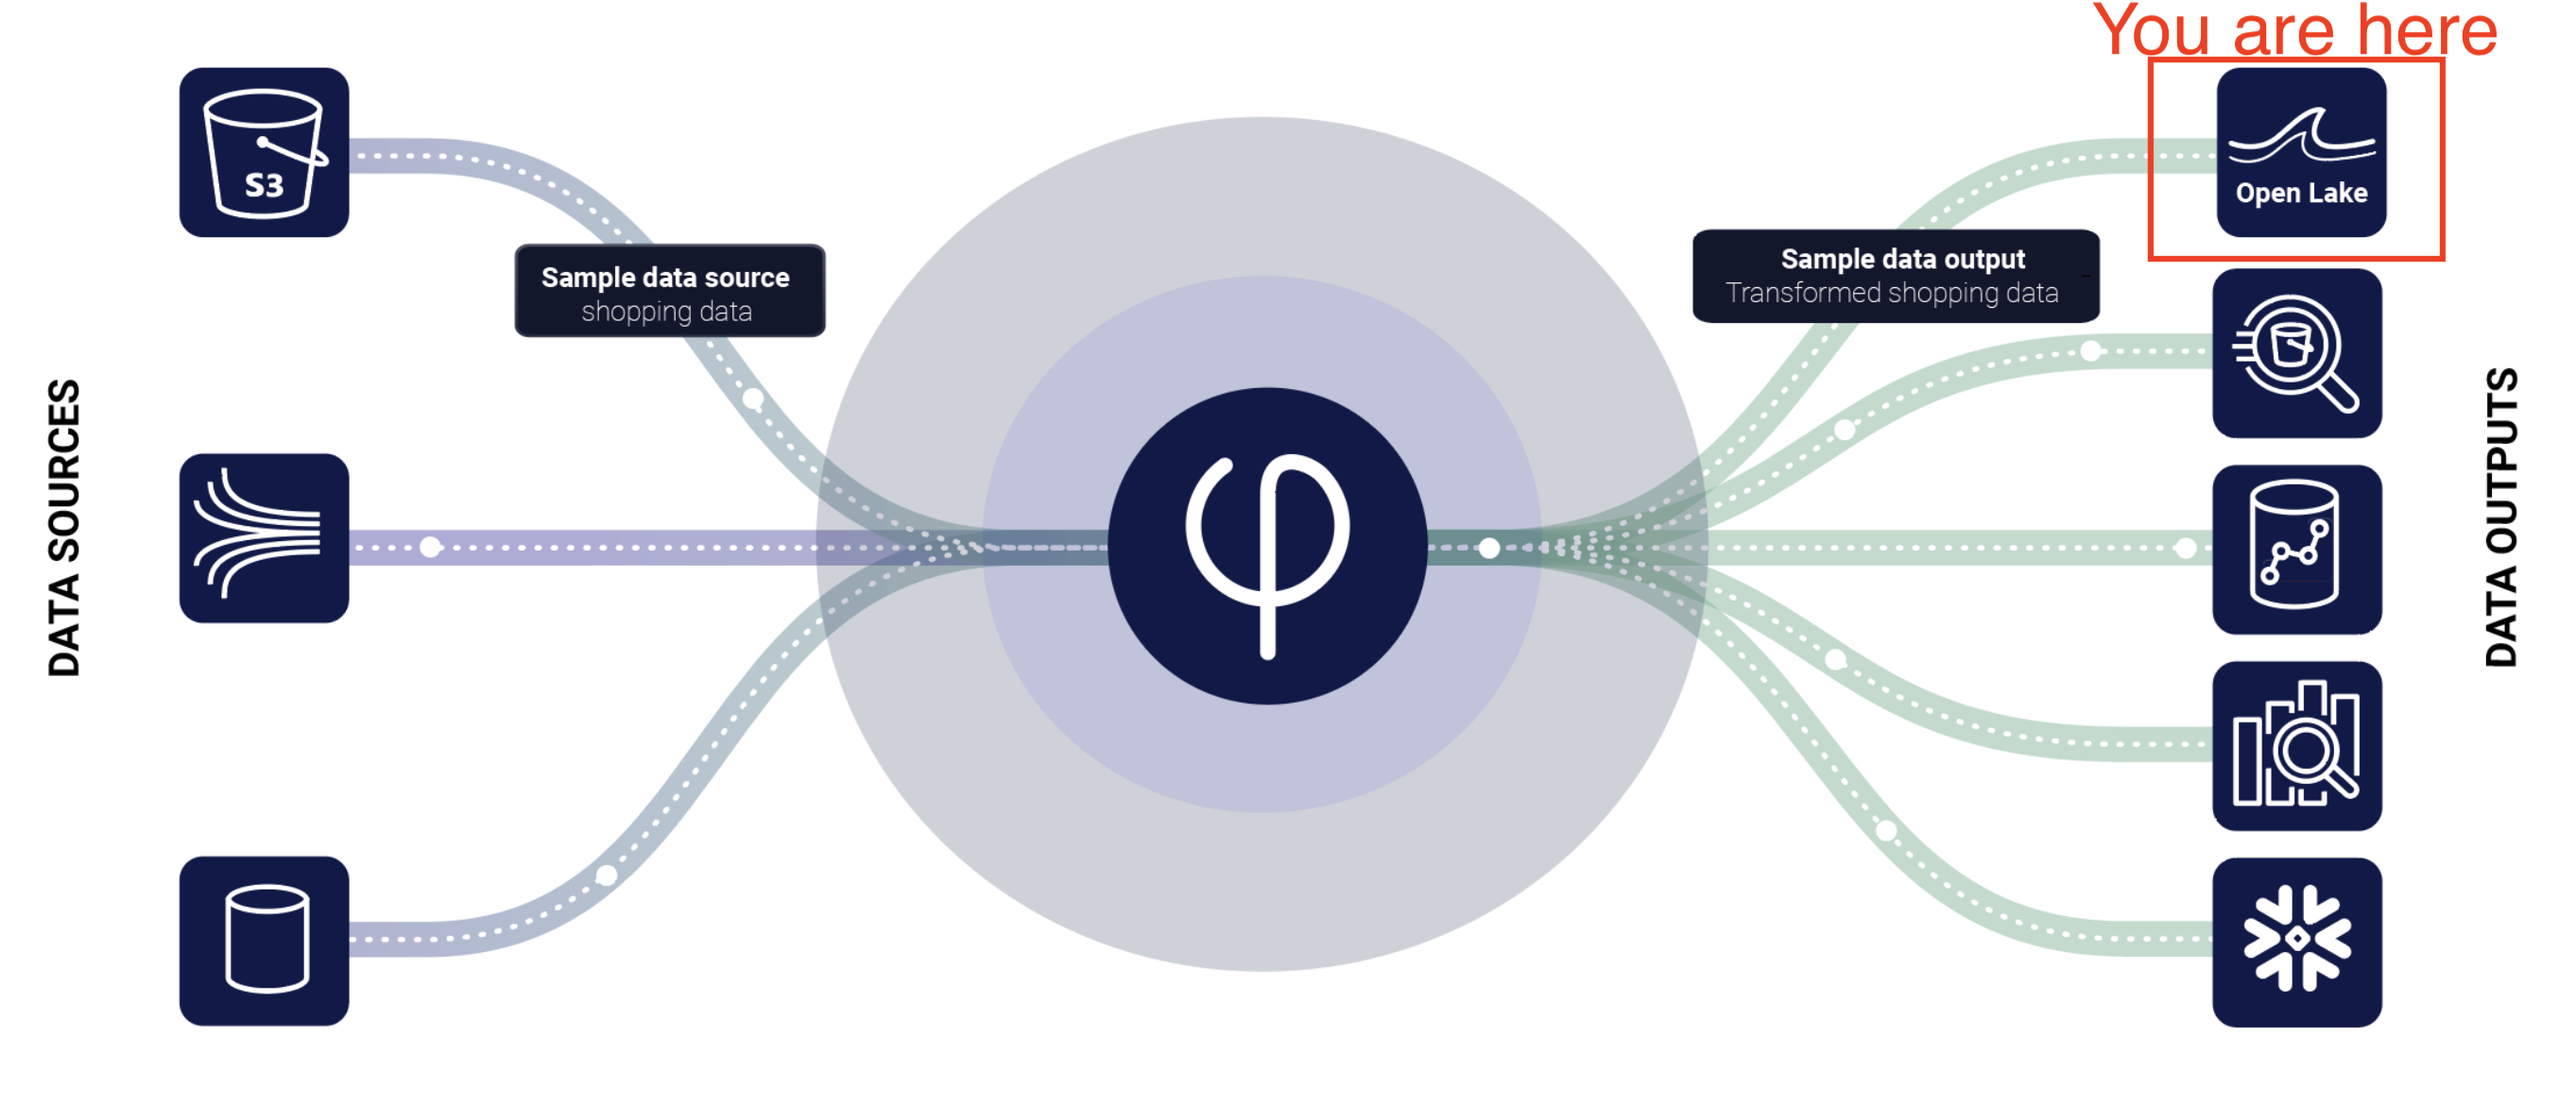
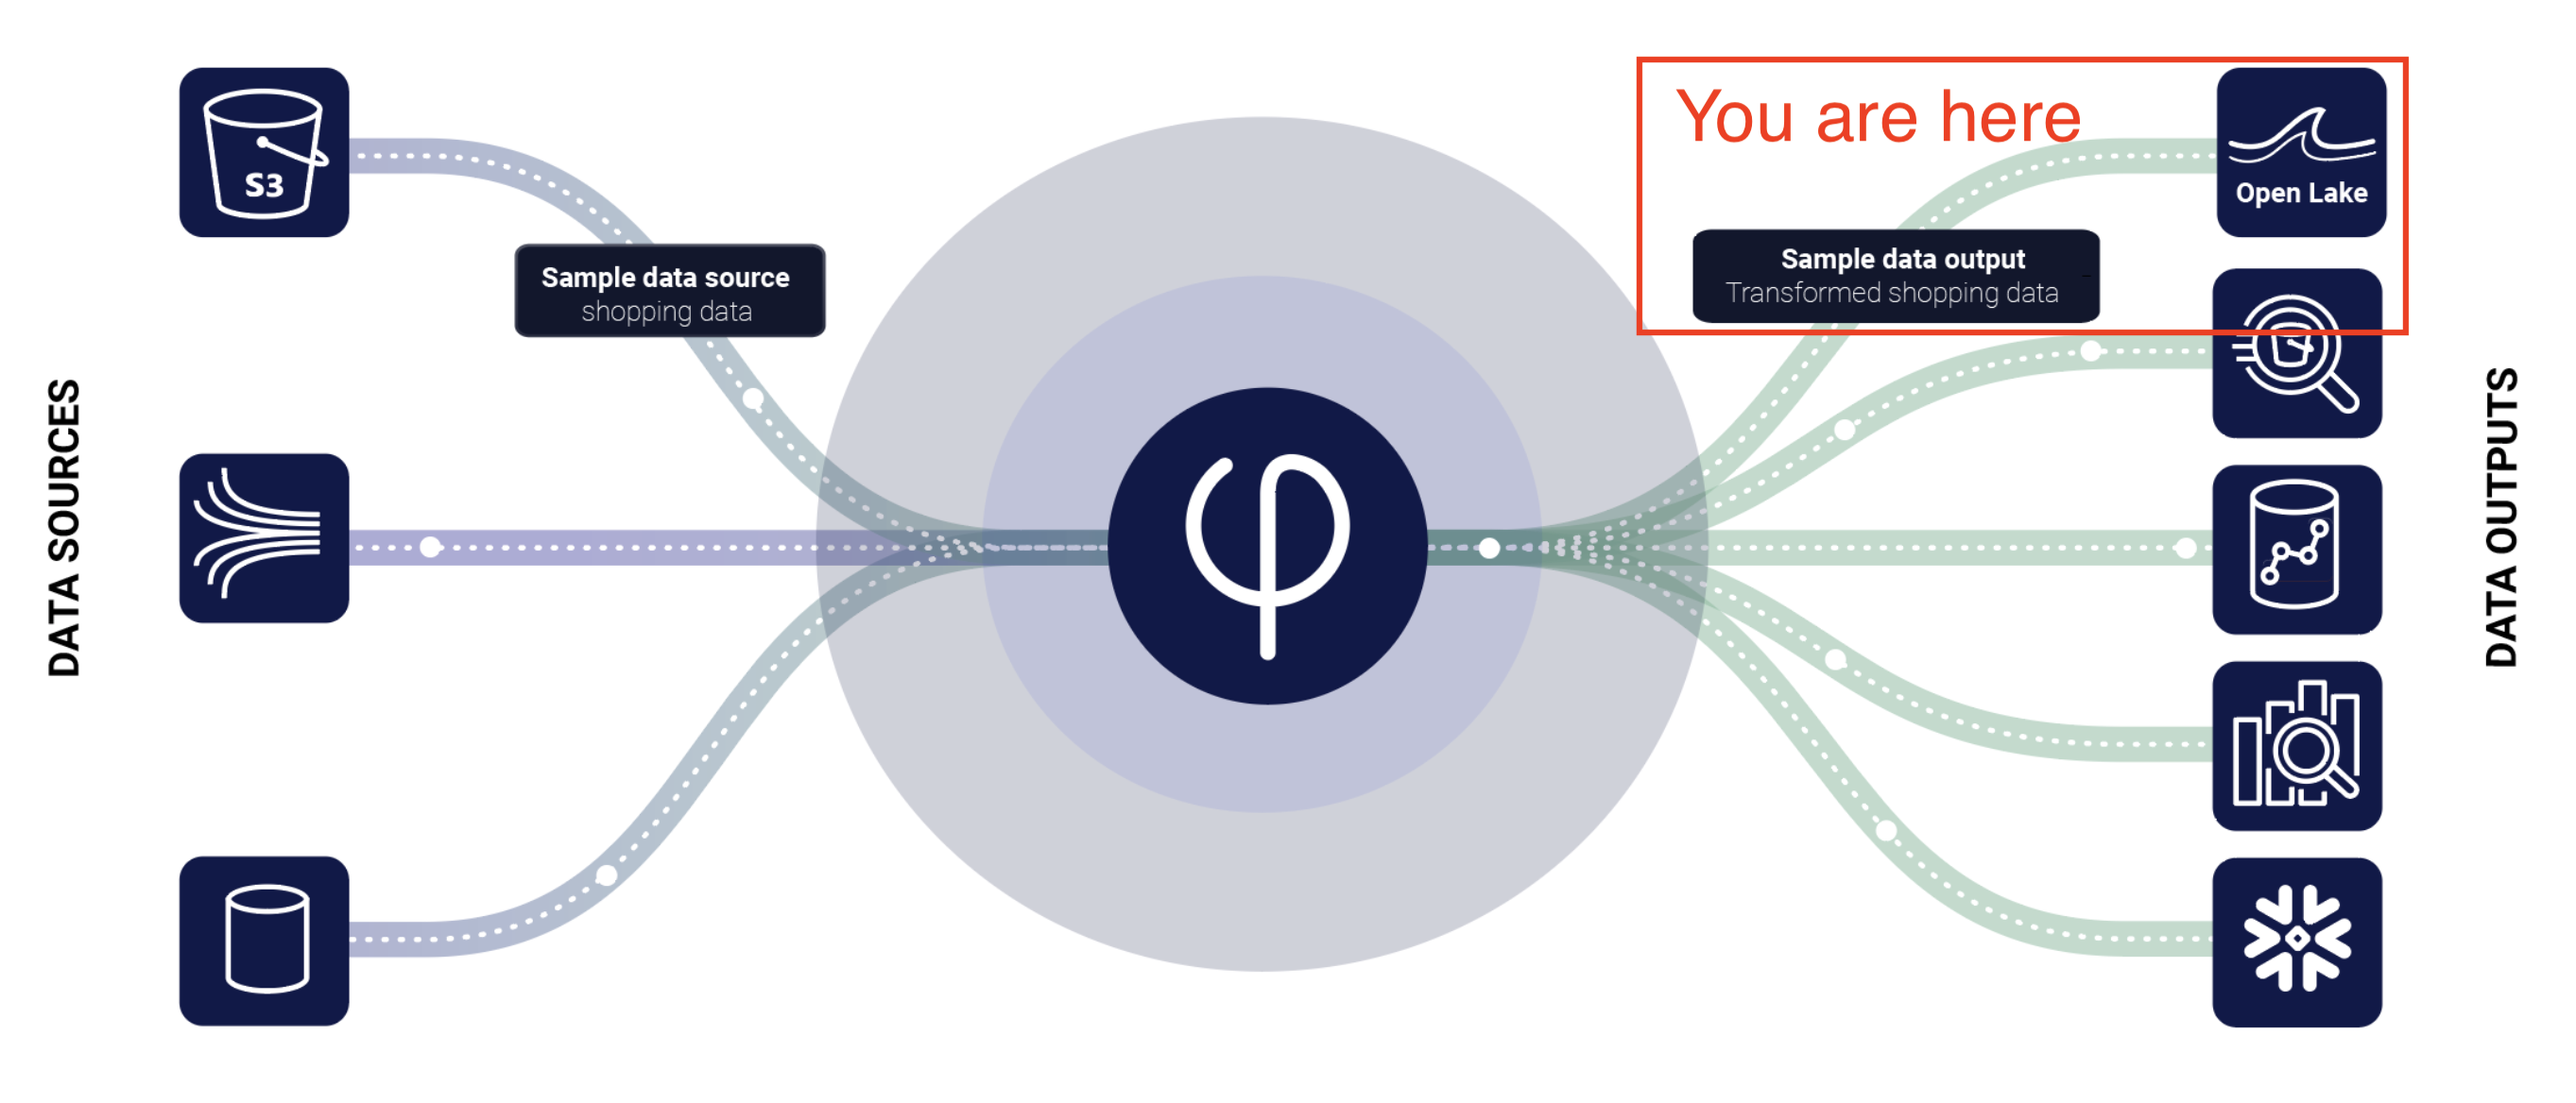
GitBook: [master] one page and 5 assets modified

diff --git a/getting-started/start-using-upsolver/upsolver-in-10-minutes/upsolver-quickstart-in-10-minutes.md b/getting-started/start-using-upsolver/upsolver-in-10-minutes/upsolver-quickstart-in-10-minutes.md
@@ -29,7 +29,7 @@ The [free Community Edition](https://app.upsolver.com/signup/free) offers limite
 
 ### Run sample queries
 
-![](../../../.gitbook/assets/image%20%28224%29.png)
+![](../../../.gitbook/assets/image%20%28225%29.png)
 
 Upsolver provides you with a pre-populated worksheet that runs queries using Open Lake query engine. Click on **Explore the Quickstart Worksheet** to get started!
 
@@ -90,7 +90,7 @@ Click on **RUN** on the upper right hand corner to see results from these querie
 
 ### Explore sample data source
 
-![](../../../.gitbook/assets/image%20%28225%29.png)
+![](../../../.gitbook/assets/image%20%28226%29.png)
 
 We have pre-created sample data sources used by the queries in the worksheets. You may explore the data sources by clicking on **DATA SOURCES &gt;  Upsolver Tutorial Order Bucket**
 
@@ -121,6 +121,8 @@ Now you might wonder - I have a data source, how do I transform my data and writ
 ![](../../../.gitbook/assets/ueszdjslnc.gif)
 
 ## Process data with Open Lake data output \(try it yourself\)
+
+![](../../../.gitbook/assets/image%20%28224%29.png)
 
 To learn more about Upsolver, let's create a Data Output together. Upsolver offers much more than this Quickstart. [Contact Upsolver ](https://www.upsolver.com/schedule-demo)for a demo or a free POC with more compute power.
 
